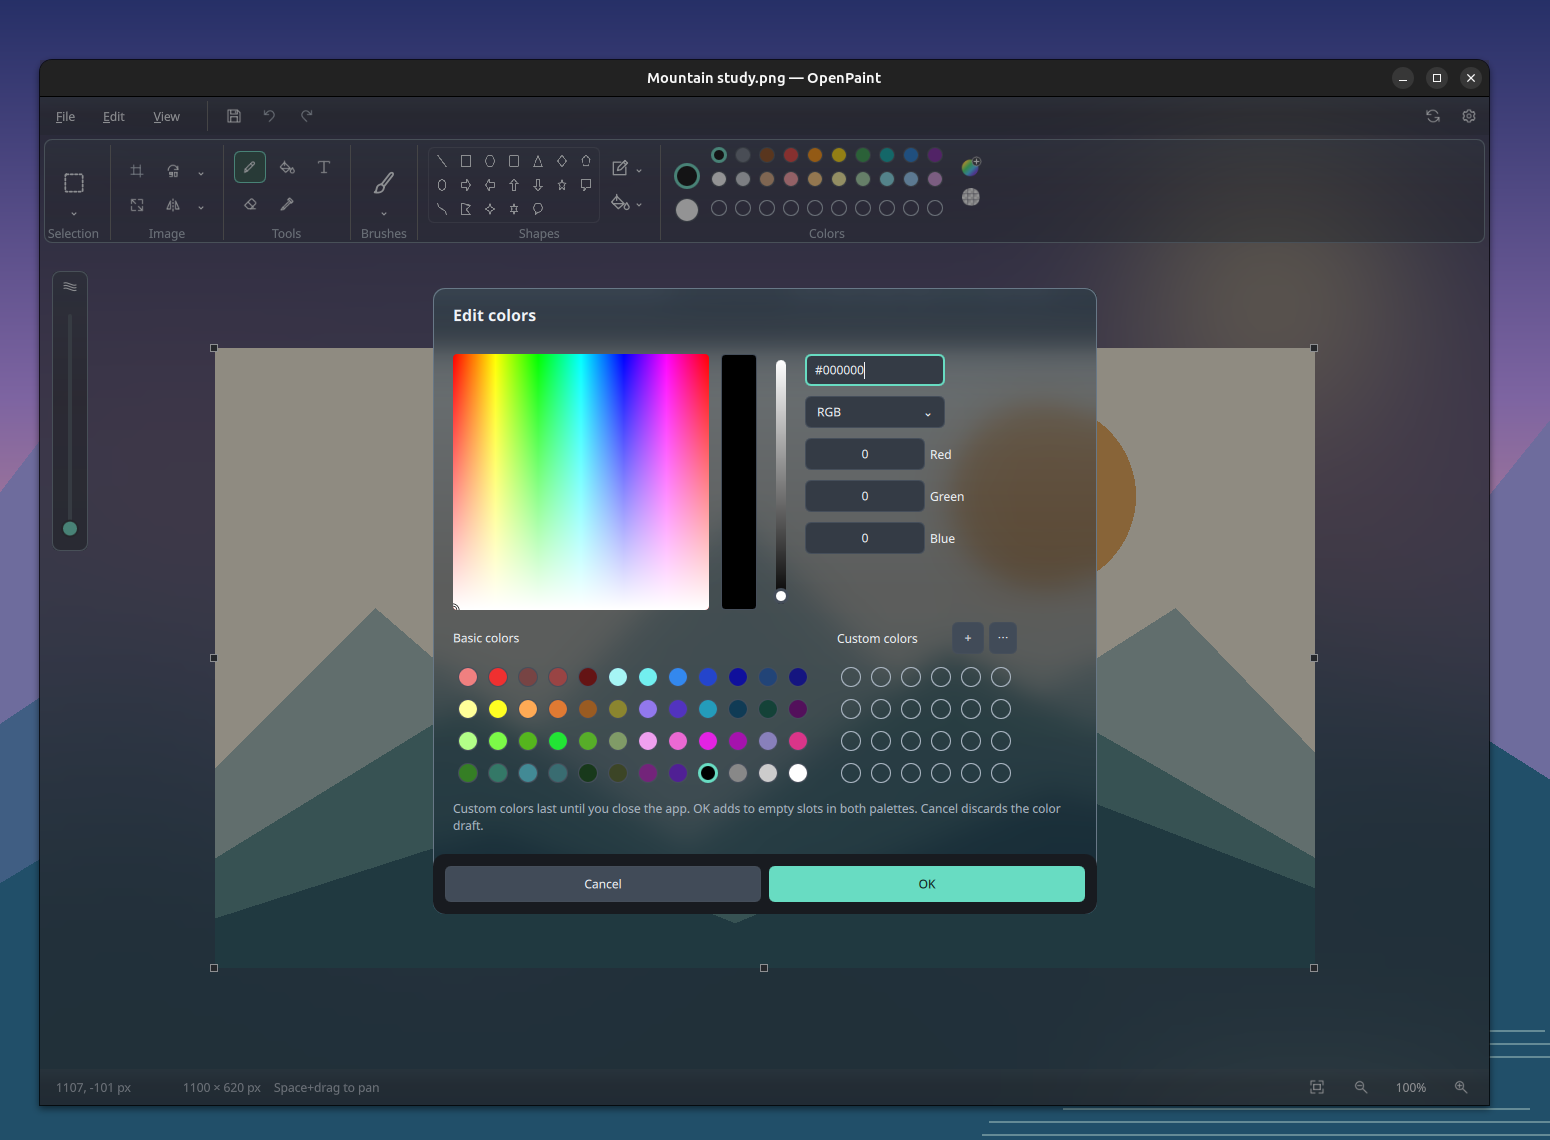
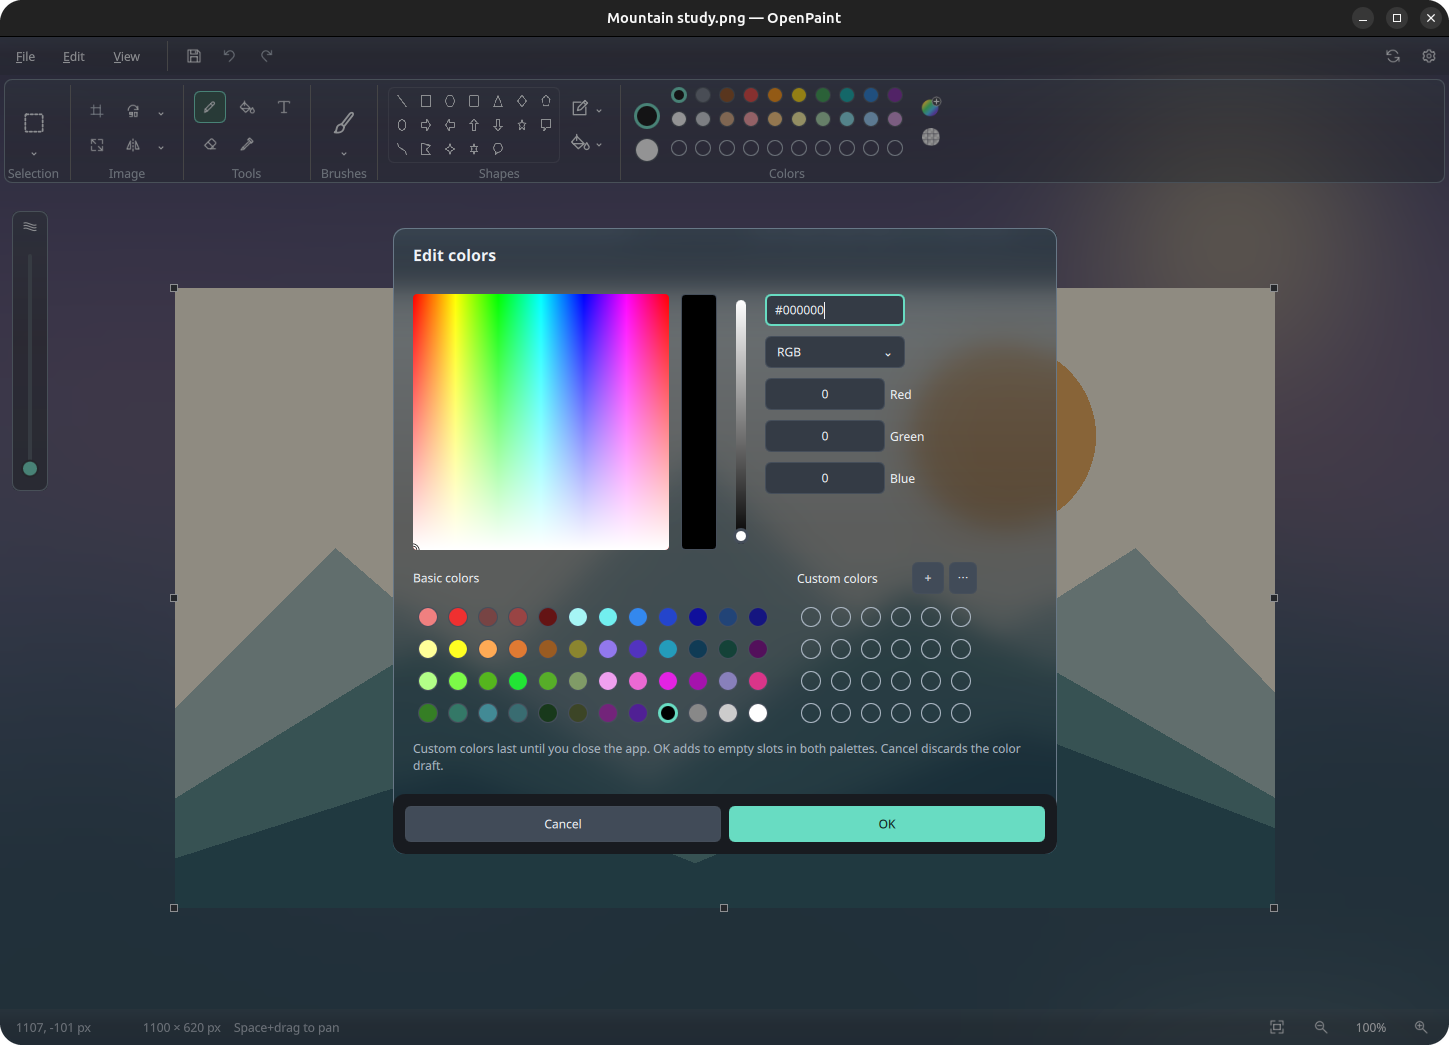
Soften website surfaces and crop release screenshots to rounded app windows

diff --git a/website/style.css b/website/style.css
@@ -1,8 +1,154 @@
 /* SPDX-License-Identifier: GPL-3.0-or-later */
-:root{font-family:Arial,Helvetica,sans-serif;color:#202020;background:white;font-synthesis:none;--blue:#0067b8;--border:#d6d6d6}
-*{box-sizing:border-box}body{margin:0}html{scroll-behavior:smooth;scroll-padding-top:30px}a{color:var(--blue);text-underline-offset:4px}a:hover{text-decoration:underline}a:focus-visible,summary:focus-visible{outline:2px solid #171717;outline-offset:5px}img{max-width:100%;height:auto}p{font-size:17px;line-height:1.65;margin:18px 0}.header{height:74px;max-width:1370px;margin:auto;padding:0 5%;display:flex;align-items:center;justify-content:space-between}.brand{display:flex;align-items:center;gap:11px;color:#202020;font-weight:600;font-size:21px;text-decoration:none}.brand img{width:32px;height:32px}.header nav{display:flex;gap:32px;font-size:14px}.header nav a{color:#292929;text-decoration:none}.header nav a:hover{text-decoration:underline}.hero{text-align:center;padding:55px 5% 0}.app-icon{display:block;margin:auto}h1{font-size:64px;letter-spacing:-2px;font-weight:600;line-height:1.12;margin:19px 0 12px}.lead{font-size:27px;margin:0}.description{margin:17px auto 26px;max-width:620px;font-size:18px}.button{display:inline-flex;align-items:center;justify-content:center;gap:14px;padding:13px 23px;background:var(--blue);color:white;text-decoration:none;font-weight:600;font-size:15px;border:2px solid var(--blue);border-radius:2px;min-height:46px}.button:hover{background:#005a9e;border-color:#005a9e;text-decoration:underline}.hero-shot{max-width:1120px;margin:44px auto 0;padding:26px 26px 0;background:#eef0f7}.hero-shot img{display:block;width:100%;box-shadow:0 6px 22px #20284620}.hero-shot figcaption{padding-bottom:14px}figcaption,.caption{font-size:12px;line-height:1.6;color:#595959;margin:14px 0 0}.section-nav{display:flex;justify-content:center;gap:58px;padding:29px 20px;border-bottom:1px solid var(--border);margin:0 auto;max-width:1120px;font-size:15px}.section-nav a{color:#242424;text-decoration:none}.section-nav a:hover{text-decoration:underline}.section{padding:80px max(5%,calc((100vw - 1120px)/2))}h2{font-size:36px;line-height:1.2;letter-spacing:-.8px;font-weight:600;margin:0 0 18px}h3{font-size:20px;line-height:1.3;font-weight:600;margin:20px 0 10px}.tools{text-align:center}.section-intro{max-width:730px;margin:0 auto 45px}.tool-grid{display:grid;grid-template-columns:repeat(4,1fr);gap:30px}.tool-grid article p{font-size:15px;line-height:1.65;margin:0}.tool-grid img{height:36px;width:36px}.brushes{background:#f5f5f5;text-align:center}.section-heading p{margin:0}.brush-display{display:grid;grid-template-columns:repeat(3,1fr);gap:55px;max-width:900px;margin:25px auto 0}.brush-display svg{display:block;width:100%;height:auto}.brush-display span{font-size:15px}.brushes .caption{margin-top:30px}.feature-row{display:grid;grid-template-columns:0.85fr 1.4fr;gap:7%;align-items:center}.feature-copy p{font-size:17px}.feature-copy>a{display:inline-block;margin-top:8px;font-weight:600;font-size:15px;text-decoration:none}.feature-row figure{margin:0;background:#f0f0f0;padding:22px}.feature-row figure img{display:block;width:100%;height:auto}.feature-row.reverse{grid-template-columns:1.4fr .85fr;background:#fafafa}.reverse .feature-copy{grid-column:2;grid-row:1}.reverse figure{grid-column:1;grid-row:1}.download{text-align:center;background:#edf3f9}.download>img{margin-bottom:20px}.download-options{display:grid;grid-template-columns:1fr 1fr;gap:65px;max-width:890px;margin:35px auto 0}.download-options article+article{border-left:1px solid #c4d2de;padding-left:65px}.download-options h3{margin:0 0 14px;font-size:23px}.download-options p{font-size:16px;min-height:80px;margin-bottom:22px}.outline{color:var(--blue);background:transparent}.outline:hover{background:#dcebf6;color:#005a9e}.download-note{font-size:12px;margin:35px auto 0;color:#50565c}.faq h2{text-align:center;margin-bottom:40px}.faq details{border-top:1px solid var(--border);padding:23px 0}.faq details:last-child{border-bottom:1px solid var(--border)}summary{position:relative;list-style:none;font-size:18px;font-weight:600;cursor:pointer;padding-right:35px}summary::-webkit-details-marker{display:none}summary:after{content:'+';position:absolute;right:6px;top:-3px;font-size:25px;font-weight:400}details[open] summary:after{content:'−'}.faq details p{max-width:900px;font-size:16px;margin-bottom:0}footer{background:#f2f2f2;padding:30px 5%;display:flex;justify-content:space-between;gap:25px;font-size:12px;line-height:1.7;color:#555}footer div{display:flex;gap:25px;flex-wrap:wrap}footer a{color:#555}.skip{position:absolute;top:-100px;left:20px;background:white;padding:15px;z-index:10}.skip:focus{top:10px}
-@media(max-width:800px){.header{padding:0 22px}.header nav{gap:20px}.hero{padding:38px 22px 0}h1{font-size:50px}.hero-shot{padding:14px 14px 0}.section{padding:55px 24px}h2{font-size:29px}.tool-grid{grid-template-columns:1fr 1fr;gap:35px 25px}.feature-row,.feature-row.reverse{grid-template-columns:1fr;gap:25px}.reverse .feature-copy,.reverse figure{grid-column:auto;grid-row:auto}.feature-row figure{padding:14px}.download-options{gap:28px}.download-options article+article{padding-left:28px}.download-options p{min-height:106px}footer{flex-direction:column;gap:14px}}
-@media(max-width:480px){.header{height:auto;min-height:72px;padding:16px 20px;gap:15px;flex-wrap:wrap}.header nav{gap:20px;font-size:13px}.brand{font-size:19px}.hero{padding-top:35px}.lead{font-size:22px}.description{font-size:16px}.app-icon{width:64px;height:64px}h1{font-size:46px}.hero-shot{margin-top:35px;padding:8px 8px 0}.hero-shot figcaption{font-size:10px}.section-nav{gap:30px;font-size:13px;padding:23px 12px}.tool-grid{gap:35px 20px}.tool-grid h3{font-size:18px}.tool-grid article p{font-size:14px}.brush-display{gap:12px}.brush-display span{font-size:13px}.download-options{grid-template-columns:1fr;gap:30px}.download-options article+article{border-left:0;border-top:1px solid #c4d2de;padding:30px 0 0}.download-options p{min-height:0}summary{font-size:16px}.faq h2{text-align:left}}
-@media(prefers-reduced-motion:reduce){html{scroll-behavior:auto}}
-
-.theme-preview{text-align:center;background:#fafafa}.theme-pair{display:grid;grid-template-columns:1fr 1fr;gap:28px;margin-top:30px}.theme-pair figure{margin:0}.theme-pair img{display:block;border:1px solid #ddd}@media(max-width:800px){.theme-pair{grid-template-columns:1fr}}
+:root {
+  font-family: Arial, Helvetica, sans-serif;
+  color: #203234;
+  background: #f6f8f8;
+  font-synthesis: none;
+  --blue: #00675f;
+  --border: #d5e1e0;
+  --glass: rgba(255, 255, 255, .74);
+  --shadow: 0 16px 50px #2448430d, inset 0 1px 0 #fff;
+}
+* { box-sizing: border-box; }
+html { scroll-behavior: smooth; scroll-padding-top: 30px; }
+body {
+  margin: 0;
+  background: radial-gradient(ellipse 75% 700px at 5% 8%, #dceee9 0, transparent 80%),
+    radial-gradient(ellipse 65% 700px at 100% 17%, #e8e4f3 0, transparent 80%),
+    radial-gradient(ellipse 70% 650px at 25% 60%, #e7eeef 0, transparent 80%);
+}
+a { color: var(--blue); text-underline-offset: 4px; }
+a:hover { text-decoration: underline; }
+a:focus-visible, summary:focus-visible { outline: 3px solid #007b70; outline-offset: 5px; }
+img { max-width: 100%; height: auto; }
+p { font-size: 17px; line-height: 1.65; margin: 18px 0; }
+.header {
+  max-width: 1200px; margin: 20px auto 0; padding: 16px 28px;
+  display: flex; align-items: center; justify-content: space-between;
+  border: 1px solid #fff; border-radius: 999px; background: var(--glass);
+  backdrop-filter: blur(24px); -webkit-backdrop-filter: blur(24px); box-shadow: var(--shadow);
+}
+.brand { display: flex; align-items: center; gap: 11px; color: #203234; font-weight: 600; font-size: 21px; text-decoration: none; }
+.brand img { width: 32px; height: 32px; }
+.header nav { display: flex; gap: 28px; font-size: 14px; }
+.header nav a { color: #334a4a; text-decoration: none; }
+.header nav a:hover { text-decoration: underline; }
+.hero { text-align: center; padding: 68px 5% 0; }
+.app-icon { display: block; margin: auto; }
+h1 { font-size: 64px; letter-spacing: -2px; font-weight: 600; line-height: 1.12; margin: 19px 0 12px; }
+.lead { font-size: 27px; margin: 0; }
+.description { margin: 17px auto 26px; max-width: 620px; font-size: 18px; }
+.button {
+  display: inline-flex; align-items: center; justify-content: center; gap: 14px;
+  padding: 14px 25px; background: var(--blue); color: white; text-decoration: none;
+  font-weight: 600; font-size: 15px; border: 1px solid #00675f;
+  border-radius: 999px; min-height: 48px; box-shadow: 0 5px 14px #00675f18, inset 0 1px 0 #ffffff30;
+}
+.button:hover { background: #00534d; border-color: #00534d; text-decoration: underline; }
+.hero-shot { max-width: 1120px; margin: 50px auto 0; }
+.hero-shot img, .theme-pair img, .feature-row figure img {
+  display: block; width: 100%; border-radius: 1.5% / 2.1%;
+  filter: drop-shadow(0 16px 20px #233c4b22);
+}
+figcaption, .caption { font-size: 12px; line-height: 1.6; color: #526364; margin: 20px 0 0; }
+.section-nav {
+  display: flex; justify-content: center; gap: 10px; padding: 8px;
+  border: 1px solid white; border-radius: 999px; background: var(--glass);
+  box-shadow: var(--shadow); margin: 32px auto 0; width: fit-content; font-size: 15px;
+}
+.section-nav a { color: #304747; padding: 10px 24px; border-radius: 999px; text-decoration: none; }
+.section-nav a:hover { background: #e2efeb; text-decoration: underline; }
+.section { max-width: 1240px; margin: 30px auto; padding: 66px 60px; }
+h2 { font-size: 36px; line-height: 1.2; letter-spacing: -.8px; font-weight: 600; margin: 0 0 18px; }
+h3 { font-size: 20px; line-height: 1.3; font-weight: 600; margin: 20px 0 10px; }
+.tools { text-align: center; }
+.section-intro { max-width: 730px; margin: 0 auto 45px; }
+.tool-grid { display: grid; grid-template-columns: repeat(4, 1fr); gap: 30px; }
+.tool-grid article p { font-size: 15px; line-height: 1.65; margin: 0; }
+.tool-grid img { height: 36px; width: 36px; }
+.theme-preview, .brushes, .download {
+  text-align: center; background: var(--glass); border: 1px solid white;
+  border-radius: 36px; box-shadow: var(--shadow);
+}
+.theme-pair { display: grid; grid-template-columns: 1fr 1fr; gap: 30px; margin-top: 36px; }
+.theme-pair figure { margin: 0; }
+.section-heading p { margin: 0; }
+.brush-display { display: grid; grid-template-columns: repeat(3, 1fr); gap: 55px; max-width: 900px; margin: 25px auto 0; }
+.brush-display svg { display: block; width: 100%; height: auto; }
+.brush-display span { font-size: 15px; }
+.brushes .caption { margin-top: 30px; }
+.feature-row { display: grid; grid-template-columns: .85fr 1.4fr; gap: 7%; align-items: center; }
+.feature-copy p { font-size: 17px; }
+.feature-copy > a { display: inline-block; margin-top: 8px; font-weight: 600; font-size: 15px; text-decoration: none; }
+.feature-row figure { margin: 0; }
+.feature-row.reverse { grid-template-columns: 1.4fr .85fr; }
+.reverse .feature-copy { grid-column: 2; grid-row: 1; }
+.reverse figure { grid-column: 1; grid-row: 1; }
+.download { background: linear-gradient(135deg, #e7f2edc9, #f2eff9e0); }
+.download > img { margin-bottom: 20px; }
+.download-options { display: grid; grid-template-columns: 1fr 1fr; gap: 55px; max-width: 890px; margin: 35px auto 0; }
+.download-options h3 { margin: 0 0 14px; font-size: 23px; }
+.download-options p { font-size: 16px; min-height: 80px; margin-bottom: 22px; }
+.outline { color: var(--blue); background: #ffffffa6; border-color: #bad3cf; }
+.outline:hover { background: white; color: #00534d; }
+.download-note { font-size: 12px; margin: 35px auto 0; color: #526364; }
+.faq h2 { text-align: center; margin-bottom: 40px; }
+.faq details { border: 1px solid #fff; border-radius: 22px; padding: 23px 26px; margin: 12px 0; background: var(--glass); box-shadow: 0 4px 15px #24484305; }
+summary { position: relative; list-style: none; font-size: 18px; font-weight: 600; cursor: pointer; padding-right: 35px; }
+summary::-webkit-details-marker { display: none; }
+summary:after { content: '+'; position: absolute; right: 6px; top: -3px; font-size: 25px; font-weight: 400; }
+details[open] summary:after { content: '−'; }
+.faq details p { max-width: 900px; font-size: 16px; margin-bottom: 0; }
+footer { max-width: 1240px; margin: 0 auto 20px; border-radius: 28px; background: #ffffff80; padding: 28px 36px; display: flex; justify-content: space-between; gap: 25px; font-size: 12px; line-height: 1.7; color: #526364; }
+footer div { display: flex; gap: 25px; flex-wrap: wrap; }
+footer a { color: #526364; }
+.skip { position: absolute; top: -100px; left: 20px; background: white; padding: 15px; border-radius: 20px; z-index: 10; }
+.skip:focus { top: 10px; }
+@media (max-width: 1280px) {
+  .header { margin: 16px 24px 0; }
+  .section, footer { margin-left: 24px; margin-right: 24px; }
+}
+@media (max-width: 800px) {
+  .header { padding: 16px 22px; }
+  .header nav { gap: 20px; }
+  .hero { padding: 45px 24px 0; }
+  h1 { font-size: 50px; }
+  .section { padding: 45px 28px; border-radius: 28px; }
+  h2 { font-size: 29px; }
+  .tool-grid { grid-template-columns: 1fr 1fr; gap: 35px 25px; }
+  .theme-pair, .feature-row, .feature-row.reverse { grid-template-columns: 1fr; gap: 30px; }
+  .reverse .feature-copy, .reverse figure { grid-column: auto; grid-row: auto; }
+  .download-options { gap: 28px; }
+  .download-options p { min-height: 106px; }
+  footer { flex-direction: column; gap: 14px; }
+}
+@media (max-width: 480px) {
+  .header { margin: 12px 14px 0; padding: 16px 20px; gap: 16px; flex-wrap: wrap; border-radius: 26px; }
+  .header nav { gap: 20px; font-size: 13px; }
+  .brand { font-size: 19px; }
+  .hero { padding: 36px 18px 0; }
+  .lead { font-size: 22px; }
+  .description { font-size: 16px; }
+  .app-icon { width: 64px; height: 64px; }
+  h1 { font-size: 46px; }
+  .hero-shot { margin-top: 35px; }
+  .hero-shot figcaption { font-size: 10px; }
+  .section-nav { gap: 0; font-size: 13px; padding: 6px; }
+  .section-nav a { padding: 10px 16px; }
+  .section { margin: 24px 14px; padding: 35px 20px; }
+  .feature-row { padding-left: 4px; padding-right: 4px; }
+  .feature-copy { padding: 0 16px; }
+  .tool-grid { gap: 30px 20px; }
+  .tool-grid h3 { font-size: 18px; }
+  .tool-grid article p { font-size: 14px; }
+  .brush-display { gap: 12px; }
+  .brush-display span { font-size: 13px; }
+  .download-options { grid-template-columns: 1fr; gap: 36px; }
+  .download-options p { min-height: 0; }
+  summary { font-size: 16px; }
+  .faq { padding-left: 4px; padding-right: 4px; }
+  .faq h2 { text-align: left; padding-left: 16px; }
+  .faq details { padding: 20px; }
+  footer { margin: 14px; padding: 24px; }
+}
+@media (prefers-reduced-motion: reduce) { html { scroll-behavior: auto; } }

diff --git a/website/index.html b/website/index.html
@@ -28,7 +28,7 @@
     <p class="description">Draw, add text and make quick image edits.<br>Free and open source. No account needed.</p>
     <a class="button" href="#download">Download OpenPaint</a>
     <figure class="hero-shot">
-      <img src="assets/openpaint-1.2.0-light.png" alt="OpenPaint 1.2.0 in light mode with a mountain drawing and translucent workspace" width="1550" height="1140" fetchpriority="high">
+      <img src="assets/openpaint-1.2.0-light.png" alt="OpenPaint 1.2.0 in light mode with a mountain drawing and translucent workspace" width="1449" height="1045" fetchpriority="high">
       <figcaption>OpenPaint 1.2.0 · Light mode · Glass at 40% surface opacity.</figcaption>
     </figure>
   </section>
@@ -49,8 +49,8 @@
     <h2 id="theme-title">Light and dark mode</h2>
     <p>Choose a theme in Settings, or follow your system theme.</p>
     <div class="theme-pair">
-      <figure><img src="assets/openpaint-1.2.0-light.png" alt="OpenPaint 1.2.0 in light mode with generated landscape artwork" width="1550" height="1140" loading="lazy"><figcaption>Light mode</figcaption></figure>
-      <figure><img src="assets/openpaint-1.2.0-dark.png" alt="OpenPaint 1.2.0 in dark mode with the same landscape artwork" width="1550" height="1140" loading="lazy"><figcaption>Dark mode</figcaption></figure>
+      <figure><img src="assets/openpaint-1.2.0-light.png" alt="OpenPaint 1.2.0 in light mode with generated landscape artwork" width="1449" height="1045" loading="lazy"><figcaption>Light mode</figcaption></figure>
+      <figure><img src="assets/openpaint-1.2.0-dark.png" alt="OpenPaint 1.2.0 in dark mode with the same landscape artwork" width="1449" height="1045" loading="lazy"><figcaption>Dark mode</figcaption></figure>
     </div>
     <p class="caption">Captured from installed OpenPaint 1.2.0 with glass enabled at 40% surface opacity, over an original illustrated backdrop. Desktop blur depends on your compositor.</p>
   </section>
@@ -65,11 +65,11 @@
   </section>
   <section class="feature-row section" id="colors" aria-labelledby="color-title">
     <div class="feature-copy"><h2 id="color-title">Colors</h2><p>Choose from the palette, pick a color from your image, or enter a precise HEX, RGB or HSV value.</p><p>Use light or dark mode, and adjust the app’s glass appearance in Settings.</p><a href="https://github.com/AfshinKI/openpaint/blob/main/docs/FEATURES.md">See all current features <span aria-hidden="true">›</span></a></div>
-    <figure><img src="assets/openpaint-1.2.0-colors-dark.png" alt="The OpenPaint color editor in dark mode" width="1550" height="1140" loading="lazy"><figcaption>OpenPaint 1.2.0 · Color editor in dark mode.</figcaption></figure>
+    <figure><img src="assets/openpaint-1.2.0-colors-dark.png" alt="The OpenPaint color editor in dark mode" width="1449" height="1045" loading="lazy"><figcaption>OpenPaint 1.2.0 · Color editor in dark mode.</figcaption></figure>
   </section>
   <section class="feature-row reverse section" id="editing" aria-labelledby="edit-title">
     <div class="feature-copy"><h2 id="edit-title">Crop, resize and rotate</h2><p>Remove the edges of an image, change its dimensions, or flip and rotate it. Zoom in and pan to work on small details.</p><p>Open and export PNG, JPEG, BMP and WebP. Save your drawing as PNG.</p></div>
-    <figure><img src="assets/openpaint-1.2.0-resize-light.png" alt="OpenPaint with the resize dialog open" width="1550" height="1140" loading="lazy"><figcaption>OpenPaint 1.2.0 · Resize controls in light mode.</figcaption></figure>
+    <figure><img src="assets/openpaint-1.2.0-resize-light.png" alt="OpenPaint with the resize dialog open" width="1449" height="1045" loading="lazy"><figcaption>OpenPaint 1.2.0 · Resize controls in light mode.</figcaption></figure>
   </section>
   <section class="download section" id="download" aria-labelledby="download-title">
     <img src="assets/app.svg" alt="" width="60" height="60">

diff --git a/docs/plans/0041-project-website.md b/docs/plans/0041-project-website.md
@@ -58,3 +58,18 @@ renders are separate from the installed glass screenshots used for publication.
 
 The maintainer explicitly authorizes merging once all checks pass. Next: verify
 CI on the updated PR head, merge through branch protection, and activate Pages.
+
+## Rounded glass presentation
+
+The maintainer requested softer, rounded website surfaces and app-only imagery.
+The page now uses pill controls, rounded translucent panels and subtle tinted
+backgrounds. All four installed captures are cropped to the app bounds with
+22px transparent rounded corners; captured UI and glass pixels are preserved.
+Acceptance: no surrounding desktop border, rounded image corners in README and
+website, readable glass surfaces, working FAQ keyboard controls, and no narrow
+screen overflow. Recheck these plus repository/site checks before merging.
+
+Validation: site build, repository validation and all 27 tooling tests pass.
+Desktop and 390px browser review confirms cropped rounded images, readable
+surfaces, no horizontal overflow and keyboard FAQ expansion. PNG alpha corners
+and empty metadata are verified for all four images. Updated CI is pending.

diff --git a/docs/assets/README.md b/docs/assets/README.md
@@ -34,7 +34,11 @@ appearance dialog. The setting describes opacity, not a 40% transparency value.
 GNOME/X11 supplies the desktop composition. An original illustrated sunset and
 mountain backdrop was displayed in a temporary window behind the app. This is
 actual composed window transparency, not a backdrop composited into screenshots.
-The app, its shadows and the staged region were captured at 1550 × 1140 pixels.
+The staged region was captured at 1550 × 1140 pixels, then cropped to the app
+window at (40, 60, 1489, 1105), yielding 1449 × 1045 pixels. A 22px rounded
+alpha mask (4× supersampled) removes the outer corners. No surrounding desktop
+border remains. The composed app pixels are unchanged, including the scenery
+visible through its glass; rounding is a presentation treatment, not an app UI change.
 No private windows, icons or personal wallpaper are included. The user's original
 OpenPaint instance, artwork, settings and wallpaper were left untouched; the
 capture instance and backdrop window were closed afterward.

diff --git a/AGENTS.md b/AGENTS.md
@@ -47,7 +47,8 @@ with [the decision template](docs/templates/DECISION.md).
 - Before each release, review the website and README against the release UI.
   Refresh light/dark screenshots and changed controls from the release build,
   using generated artwork and a staged redistributable backdrop; show glass at
-  40% surface opacity in both themes. Preserve open artwork and user settings;
+  40% surface opacity in both themes. Crop to the app window with transparent
+  rounded outer corners, preserving the captured UI. Preserve open artwork and user settings;
   record the source version and capture method in docs/assets/README.md and
   website/release.json. Never relabel old screenshots as a new release.
   Follow the website checklist in docs/RELEASES.md and verify the deployed page.

diff --git a/docs/RELEASES.md b/docs/RELEASES.md
@@ -219,6 +219,9 @@ Before publication of every version:
    Surface opacity to 40% in both themes. Use an original or redistributable
    backdrop in a staged region; exclude personal windows, desktop icons, recent
    paths and metadata. Preserve open artwork and restore any desktop changes.
+   Crop to the app window without surrounding desktop; use transparent rounded
+   outer corners and record the crop/mask treatment. Keep the captured glass
+   appearance intact; do not paint over controls or synthesize application UI.
 3. Name images with the release version. Record the application source commit,
    capture method, theme and rendering conditions in the asset provenance notes.
    Do not claim harness captures came from the installed executable.

diff --git a/website/README.md b/website/README.md
@@ -37,4 +37,7 @@ The build rejects a version mismatch with CMake; repository CI runs that check.
 Capture filenames identify the verified installed release version. Record the
 exact rendering conditions in the asset provenance notes; use glass enabled at
 40% surface opacity and a staged original backdrop in light and dark mode.
+Crop away the surrounding desktop and use transparent rounded outer corners.
+Keep plain copy, rounded controls and soft translucent surfaces; preserve contrast
+and visible keyboard focus. App screenshots remain real captures, not mockups.
 A matching version number is not proof of accurate images: inspect every capture.

diff --git a/README.md b/README.md
@@ -11,6 +11,8 @@ Free and open source. Editing works offline—no account or telemetry.
 
 ## OpenPaint 1.2.0
 
+Screenshots are cropped to the app window with rounded outer corners.
+
 ### Light mode
 
 ![OpenPaint 1.2.0 in light mode](docs/assets/openpaint-1.2.0-light.png)
